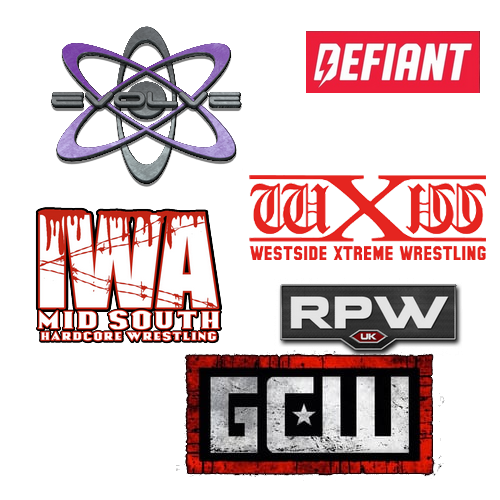
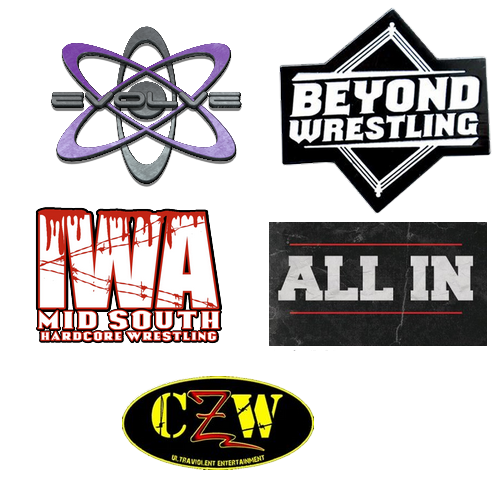
Updated assets for INDÉ. Sep US/EU.

diff --git a/src/app/wrestling/mock-review.ts b/src/app/wrestling/mock-review.ts
@@ -628,7 +628,7 @@ export const REVIEWS: Review[] = [
 		},
 		{
 			id:6,
-			name: "Indé 2019 : EVOLVE BEYOND IWA CZW",
+			name: "Indé US 2019 : EVOLVE BEYOND IWA CZW",
 			date: 2019,
 			driveLink:"https://docs.google.com/document/d/1ijLwa7oK7yzz2Yrjbnx7_7jq4inBDn6n9ETQLlEItmw",
 			img:"INDÉ",
@@ -640,7 +640,7 @@ export const REVIEWS: Review[] = [
 			name: "Indé Eu 2019 : RPW OTT wXw EVOLVE DEFIANT",
 			date: 2019,
 			driveLink:"https://docs.google.com/document/d/17UnQtK22Daj0ZTRuGyZVGoiD5xIvrJQW9B2C6p3LbW4",
-			img:"INDÉ",
+			img:"INDÉEU",
 			type:"INDÉ",
 			types: ["INDÉ"],
 		},
@@ -814,7 +814,7 @@ export const REVIEWS: Review[] = [
 	},
 	{
 		id:3,
-		name: "Indé 2018 : EVOLVE BEYOND IWA CZW",
+		name: "Indé US 2018 : EVOLVE IWA CZW ALL IN",
 		date: 2018,
 		driveLink:"https://docs.google.com/document/d/1ZjOGVs-pq62lqF-67taJqPyCG152RGPKMqJ7GFE0WXE/edit",
 		img:"INDÉ",
@@ -826,7 +826,7 @@ export const REVIEWS: Review[] = [
 		name: "Indé Eu 2018 : RPW OTT wXw EVOLVE DEFIANT",
 		date: 2018,
 		driveLink:"https://docs.google.com/document/d/1lVjJbIaMHcaqZILSoxoyQ6tYiK-qlS6zZmgn2SN7GkE",
-		img:"INDÉ",
+		img:"INDÉEU",
 		type:"INDÉ",
 		types: ["INDÉ"],
 	},
